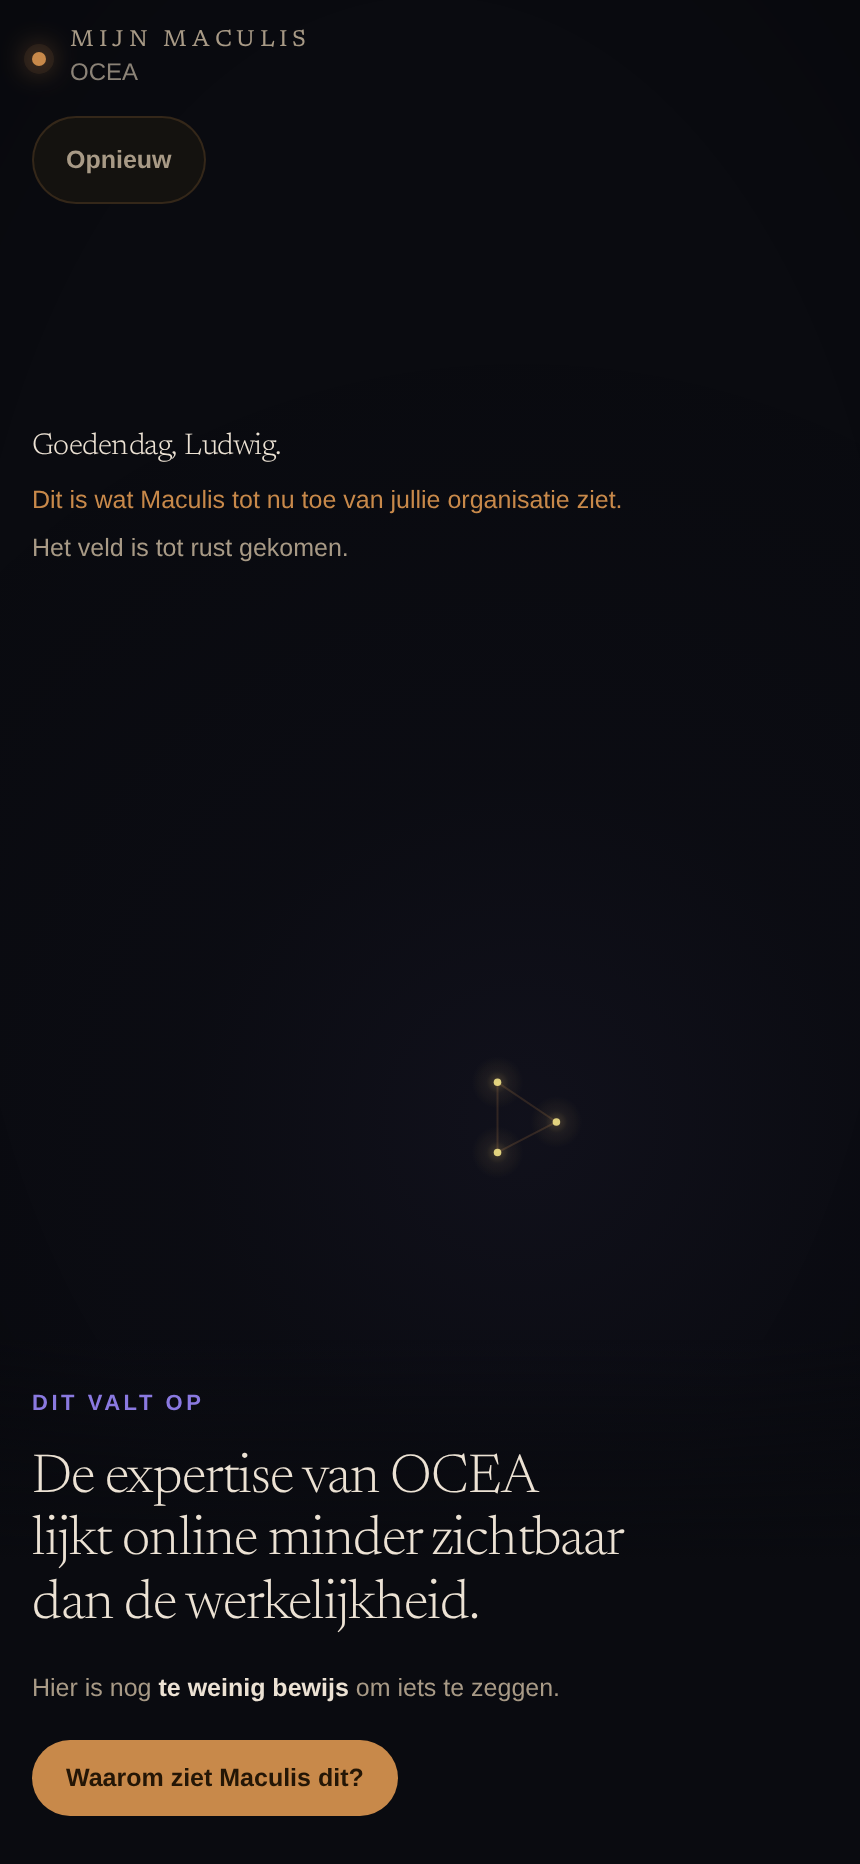
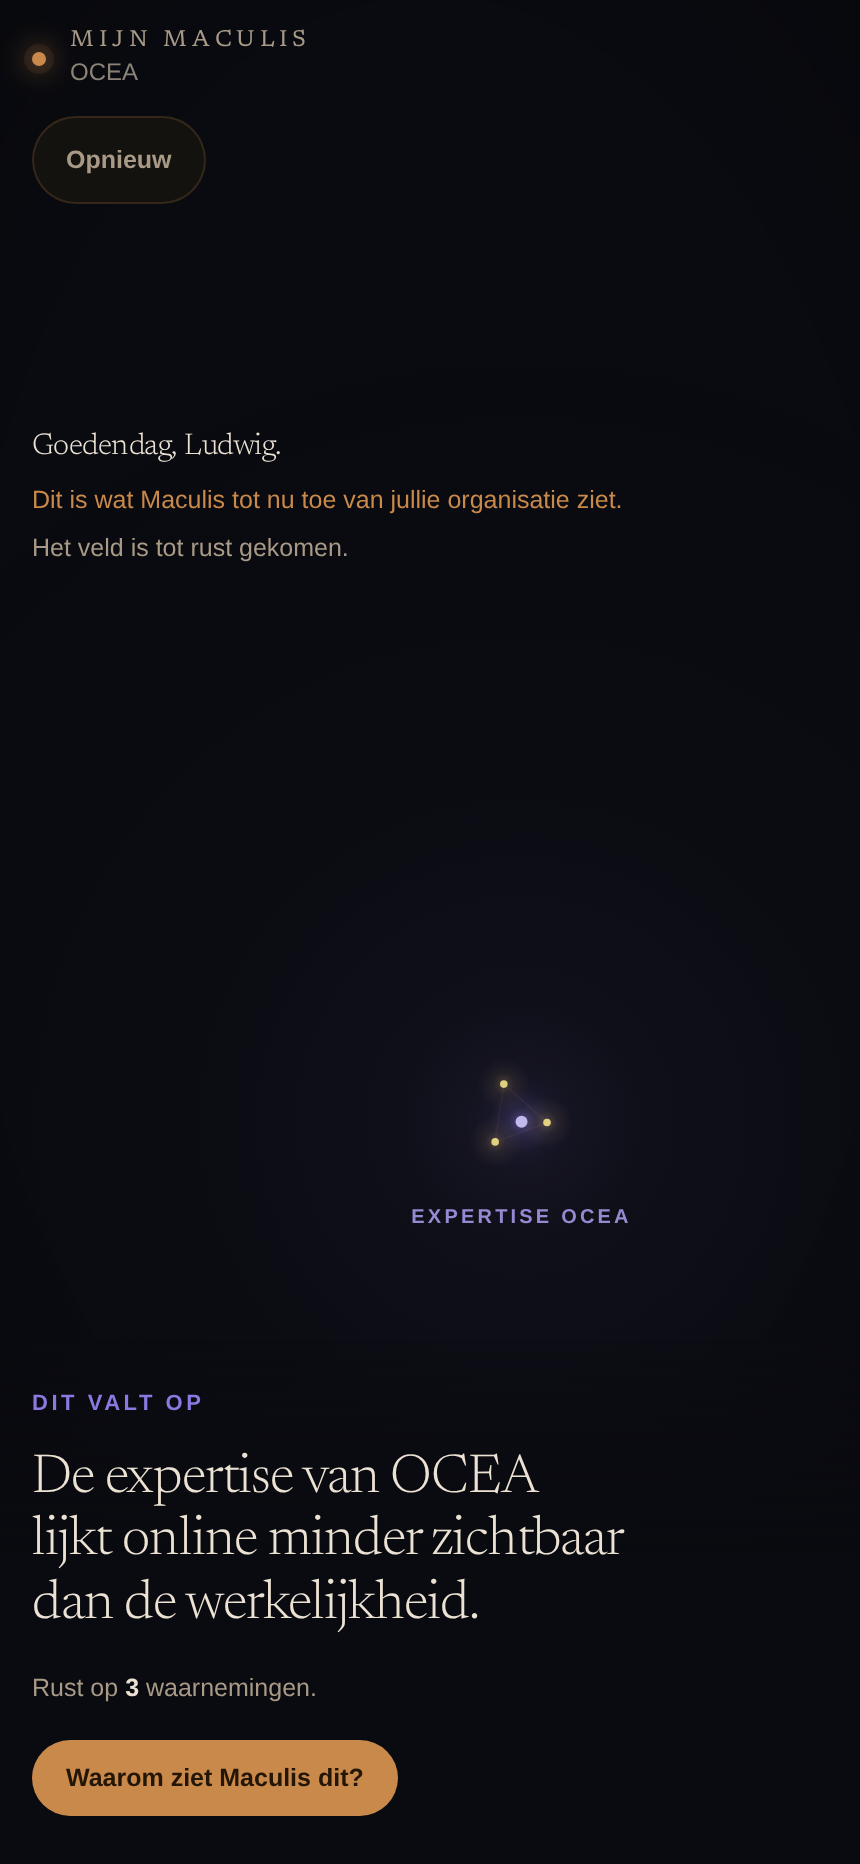
feat(mijn): het licht volgt de grond, nooit de mening
Een reactie van de ondernemer verandert nooit de bron, de waarneming of het
bewijs. Ja, Deels en Nee zijn alle drie waardevolle routes.

- kracht() leest het antwoord op "Herken je dit?" niet meer. De drie
  vermenigvuldigers lieten een mening de zekerheid van een waarneming
  bewegen, en daarmee trok Maculis zijn eigen waarneming in zodra iemand
  het er niet mee eens was
- de drempel is geen score maar wat een soort uitspraak nodig heeft om te
  bestaan. reveal gaat van 4 naar 1: de onthulling van de Lens wordt uit
  haar eigen citaten afgeleid en kent geen onafhankelijke bevestiging.
  tension blijft 2, breedte-uitspraken blijven ongewijzigd
- alleen de houding unknown zegt nog "te weinig om iets te zeggen", en dan
  als de uitspraak zelf. Een inzicht spreekt zichzelf niet meer tegen op
  het eerste scherm
- Ja, Deels en Nee krijgen een betekenis in plaats van een sterkte, en de
  toelichtingsvraag vraagt naar het perspectief van binnenuit in plaats van
  naar wat Maculis verkeerd zag
- de vervolgvraag blijft ook bij Nee staan, aan beide kanten. Juist daar
  verschillen twee perspectieven op dezelfde werkelijkheid

Tests: 100/100. Eerste kamer: 41 stappen groen, nu inclusief alle drie de
antwoorden en de landingstekst.

Claude-Session: https://claude.ai/code/session_01AoddLRW9vSY5djFd8WUgzE

Changed region(s): [[0.0605, 0.9024, 0.4535, 0.9335], [0.514, 0.9024, 0.6349, 0.9335], [0.5744, 0.5601, 0.6349, 0.6223]]

diff --git a/public/mijn.js b/public/mijn.js
@@ -122,10 +122,25 @@
     }
   }
 
-  // De bewijsdrempel waarboven violet ontsteekt hangt af van het SOORT uitspraak, niet van een
-  // vast getal (canon 8.1): "een tegenstrijdigheid heeft aan twee gegronde signalen genoeg, een
-  // patroon heeft er veel meer nodig". Onbekend ontsteekt nooit; onzekerheid blijft kleurloos.
-  const DREMPEL = { tension: 2, reveal: 4, consistency: 5, non_reveal: 5, unknown: Infinity };
+  // Wat een uitspraak aan grond NODIG HEEFT OM TE BESTAAN. Geen kwaliteitscijfer en geen score:
+  // per soort uitspraak een andere logica, omdat de uitspraken iets anders beweren.
+  //
+  //   structurele uitspraken, waar de grond de uitspraak IS
+  //     tension    2  een tegenstrijdigheid heeft er per definitie twee, één aan elke kant
+  //     reveal     1  de onthulling van de Lens wordt AFGELEID uit haar citaten en bestaat niet
+  //                   zonder. Vragen om een extra regel is vragen om bevestiging die dit soort
+  //                   uitspraak niet kent: er is geen onafhankelijke tweede bron die de eerste
+  //                   kan bevestigen, het is dezelfde blik op dezelfde plek. Stond op 4, en dat
+  //                   liet Maculis zijn eigen onthulling tegenspreken op het eerste scherm
+  //
+  //   breedte-uitspraken, waar het aantal wél iets betekent
+  //     non_reveal 5  een afwezigheid mag je pas beweren als je genoeg plekken hebt bekeken
+  //     consistency 5 één voorbeeld is een anekdote, een lijn heeft breedte nodig
+  //
+  //   en de uitspraak die zichzelf uitspreekt
+  //     unknown  ∞    "hier is te weinig om iets te zeggen" IS de uitspraak, niet een tekort
+  //                   eronder. Alleen deze houding zegt dat, en alleen als de uitspraak zelf.
+  const DREMPEL = { tension: 2, reveal: 1, consistency: 5, non_reveal: 5, unknown: Infinity };
   const drempel = (i) => DREMPEL[i && i.stance] ?? 4;
   const bewijs = (i) => Math.max(1, Number(i && i.evidence_count) || 0);
   // Dimensie B, op één plek gedefinieerd. Stond eerder op drie plekken net iets anders, wat de
@@ -276,15 +291,18 @@
     };
   }
 
-  // Hoeveel bewijs draagt dit patroon, ten opzichte van zijn eigen drempel. Menselijke herkenning
-  // telt mee: zonder de mens blijft een patroon een vermoeden.
+  // Hoeveel grond draagt dit patroon, ten opzichte van wat zijn soort uitspraak nodig heeft.
+  //
+  // HET LICHT VOLGT DE GROND, NOOIT DE MENING. Hier stond eerder een vermenigvuldiging met het
+  // antwoord op "Herken je dit?": ja maakte sterker, deels zwakker, nee bijna onzichtbaar. Dat
+  // liet een reactie de zekerheid van een waarneming veranderen, en daarmee trok Maculis zijn
+  // eigen waarneming in zodra iemand het er niet mee eens was. Drie citaten van een website komen
+  // niet los omdat iemand ze anders leest.
+  //
+  // Een reactie verandert nooit de bron, de waarneming of het bewijs. Wat een reactie wél doet,
+  // staat in uitkomstTekst: ze zet een tweede perspectief naast het eerste.
   function kracht(pat) {
-    let k2 = pat.n / (drempel(pat.ins) === Infinity ? Infinity : Math.max(drempel(pat.ins), 1));
-    const a = herkenning[pat.ins.id];
-    if (a === 'ja') k2 *= 1.35;
-    if (a === 'deels') k2 *= 0.92;
-    if (a === 'nee') k2 *= 0.42;
-    return k2;
+    return pat.n / (drempel(pat.ins) === Infinity ? Infinity : Math.max(drempel(pat.ins), 1));
   }
   const ontstoken = (pat) => kracht(pat) >= 1;
   // Canon 7: de straal is een functie van het aantal onafhankelijke signalen, niet van de opmaak.
@@ -570,10 +588,12 @@
     $('zeg-aanhef').textContent = houdingLabel(i.stance);
     $('zeg-titel').innerHTML = accent(i.title);
     const n = bewijs(i);
-    $('zeg-rust').innerHTML = ontstoken(pat)
-      ? `Rust op <b>${n}</b> ${n === 1 ? 'waarneming' : 'waarnemingen'}.`
-        + (pat.nieuw ? ' Sinds je vorige bezoek is er iets bijgekomen.' : '')
-      : 'Hier is nog <b>te weinig bewijs</b> om iets te zeggen.';
+    // Een inzicht dat Maculis uitspreekt, spreekt Maculis niet in dezelfde adem tegen. Alleen de
+    // houding "unknown" zegt dat er te weinig is, en die zegt het als de uitspraak zelf.
+    $('zeg-rust').innerHTML = drempel(i) === Infinity
+      ? 'Hier is nog <b>te weinig bewijs</b> om iets te zeggen.'
+      : `Rust op <b>${n}</b> ${n === 1 ? 'waarneming' : 'waarnemingen'}.`
+        + (pat.nieuw ? ' Sinds je vorige bezoek is er iets bijgekomen.' : '');
     $('zeg').classList.add('in');
   }
 
@@ -774,7 +794,13 @@
   // steviger worden vastgelegd dan het antwoord waar hij bij hoort. Het volgt dezelfde grens als
   // het inzicht zelf, en de tekst zegt precies waar het blijft.
   // ============================================================================================
-  const TOEL_VRAAG = { deels: 'Wat klopt er wel en wat niet?', nee: 'Wat zien wij verkeerd?' };
+  // Geen van beide vraagt om een correctie op ons. Ze vragen naar het perspectief dat wij niet
+  // hadden. "Wat zien wij verkeerd?" stond hier eerder, en dat maakt van een ander perspectief
+  // een fout van Maculis.
+  const TOEL_VRAAG = {
+    deels: 'Wat klopt er wel, en wat ziet er van binnenuit anders uit?',
+    nee: 'Hoe ziet dit er van binnenuit uit?',
+  };
 
   function toonVraag(pat) {
     const el = $('bw-vraag');
@@ -787,7 +813,7 @@
       b.classList.toggle('primair', aan);
       b.setAttribute('aria-pressed', aan ? 'true' : 'false');
     });
-    $('bw-uitkomst').innerHTML = uitkomstTekst(gekozen, i);
+    $('bw-uitkomst').innerHTML = uitkomstTekst(gekozen);
 
     // Deels en Nee zijn zonder toelichting arm. Het veld staat er dan meteen open, en blijft leeg
     // mogen blijven: deels antwoorden en verder niets zeggen is een eerlijke uitkomst.
@@ -808,11 +834,18 @@
   // route naar dezelfde vraag als het grensblok eronder, en vroeg de lezer te herhalen wat ze net
   // hadden ingevuld. De deelbeslissing woont op precies één plek.
   const BLIJFT = ' Je antwoord blijft bij jou.';
-  function uitkomstTekst(a, i) {
-    if (a === 'ja') return '<b>Bevestigd door jou.</b> Het patroon komt tot rust en het licht wordt sterker.' + esc(BLIJFT);
-    if (a === 'deels') return '<b>Deels herkend.</b> Maculis houdt het inzicht aan en het licht neemt iets af.' + esc(BLIJFT);
-    if (a === 'nee') return '<b>Niet herkend.</b> Het patroon wordt weer onzeker: de waarnemingen komen los en gaan opnieuw bewegen.' + esc(BLIJFT);
-    return 'Jouw antwoord verandert wat het veld laat zien. Het blijft bij jou.';
+  // Wat een antwoord BETEKENT, niet wat het met de zekerheid doet. Alle drie zijn waardevolle
+  // routes en geen van drieën is fout. Hier stond eerder dat het licht sterker werd, iets afnam,
+  // of dat de waarnemingen loskwamen; dat maakte van een mening een correctie op het bewijs.
+  //
+  // Verschil is de opbrengst, niet het probleem. Van buitenaf lijkt iets een beperking, van
+  // binnenuit blijkt het soms een bewuste keuze. Beide zijn waar binnen hun perspectief, en pas
+  // naast elkaar zijn ze de werkelijkheid.
+  function uitkomstTekst(a) {
+    if (a === 'ja') return '<b>We zien hetzelfde.</b> Wat wij van buitenaf zagen en wat jij weet, vallen samen.' + esc(BLIJFT);
+    if (a === 'deels') return '<b>We kijken anders naar hetzelfde.</b> Wat wij van buitenaf zagen blijft staan. Wat jij van binnenuit weet, komt ernaast.' + esc(BLIJFT);
+    if (a === 'nee') return '<b>Onze perspectieven verschillen.</b> Dat is informatie, geen fout. Wij houden vast wat we zagen, jij houdt vast wat jij weet.' + esc(BLIJFT);
+    return 'Jouw antwoord komt naast wat wij zagen te staan. Het verandert niet wat wij zagen, en het blijft bij jou.';
   }
 
   // ============================================================================================
@@ -831,8 +864,11 @@
   function intentieRelevant(i) {
     if (!i) return false;
     if (drempel(i) === Infinity) return false;
-    const a = herkenning[i.id];
-    if (a !== 'ja' && a !== 'deels') return false;
+    // Elk antwoord houdt de vraag open, ook nee. Die eis stond hier eerder wel, met als reden dat
+    // een patroon dat iemand niet herkent voor hem niet bestaat. Dat klopte niet: juist daar
+    // verschillen twee perspectieven op dezelfde werkelijkheid, en dat is het gesprek waard. De
+    // deur ging dicht op het moment dat het interessant werd.
+    if (!herkenning[i.id]) return false;
     return i.stance === 'tension' || i.stance === 'reveal';
   }
 
@@ -1063,9 +1099,9 @@
         <span class="pt-titel"></span>
         <span class="pt-meta"></span>`;
       b.querySelector('.pt-titel').textContent = i.title;
-      b.querySelector('.pt-meta').textContent = ontstoken(pat)
-        ? `${n} ${n === 1 ? 'waarneming' : 'waarnemingen'}${pat.nieuw ? ', nieuw sinds je vorige bezoek' : ''}`
-        : 'Te weinig bewijs om iets te zeggen';
+      b.querySelector('.pt-meta').textContent = drempel(i) === Infinity
+        ? 'Te weinig bewijs om iets te zeggen'
+        : `${n} ${n === 1 ? 'waarneming' : 'waarnemingen'}${pat.nieuw ? ', nieuw sinds je vorige bezoek' : ''}`;
       b.addEventListener('click', () => openBewijs(k));
       li.appendChild(b); ul.appendChild(li);
     });
